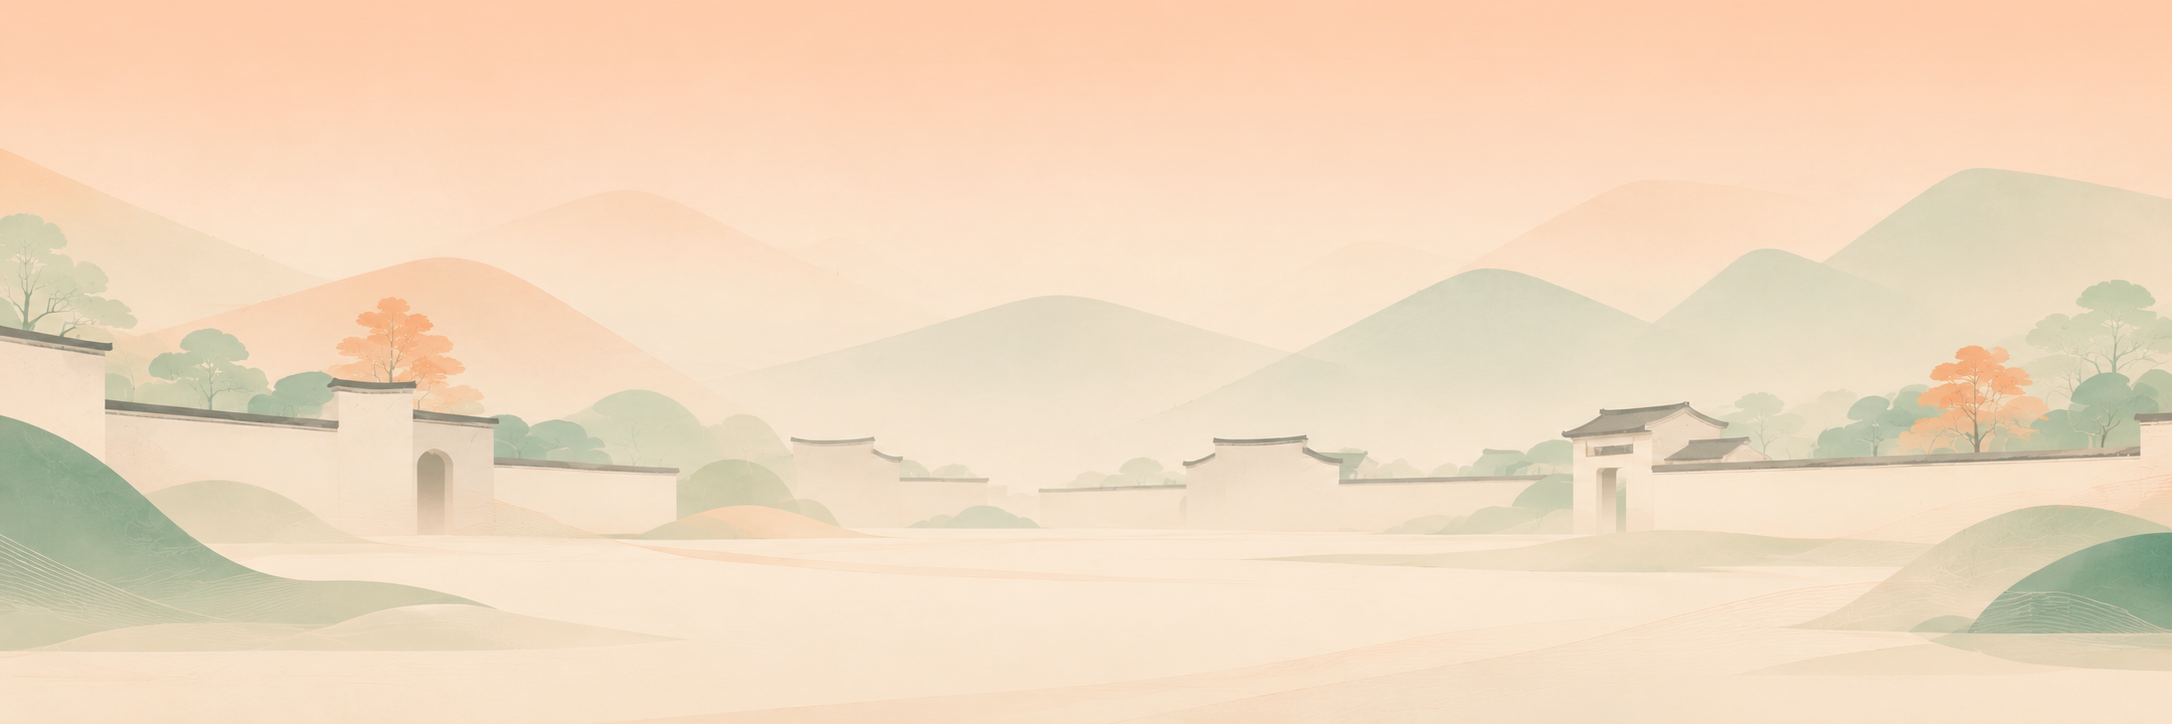
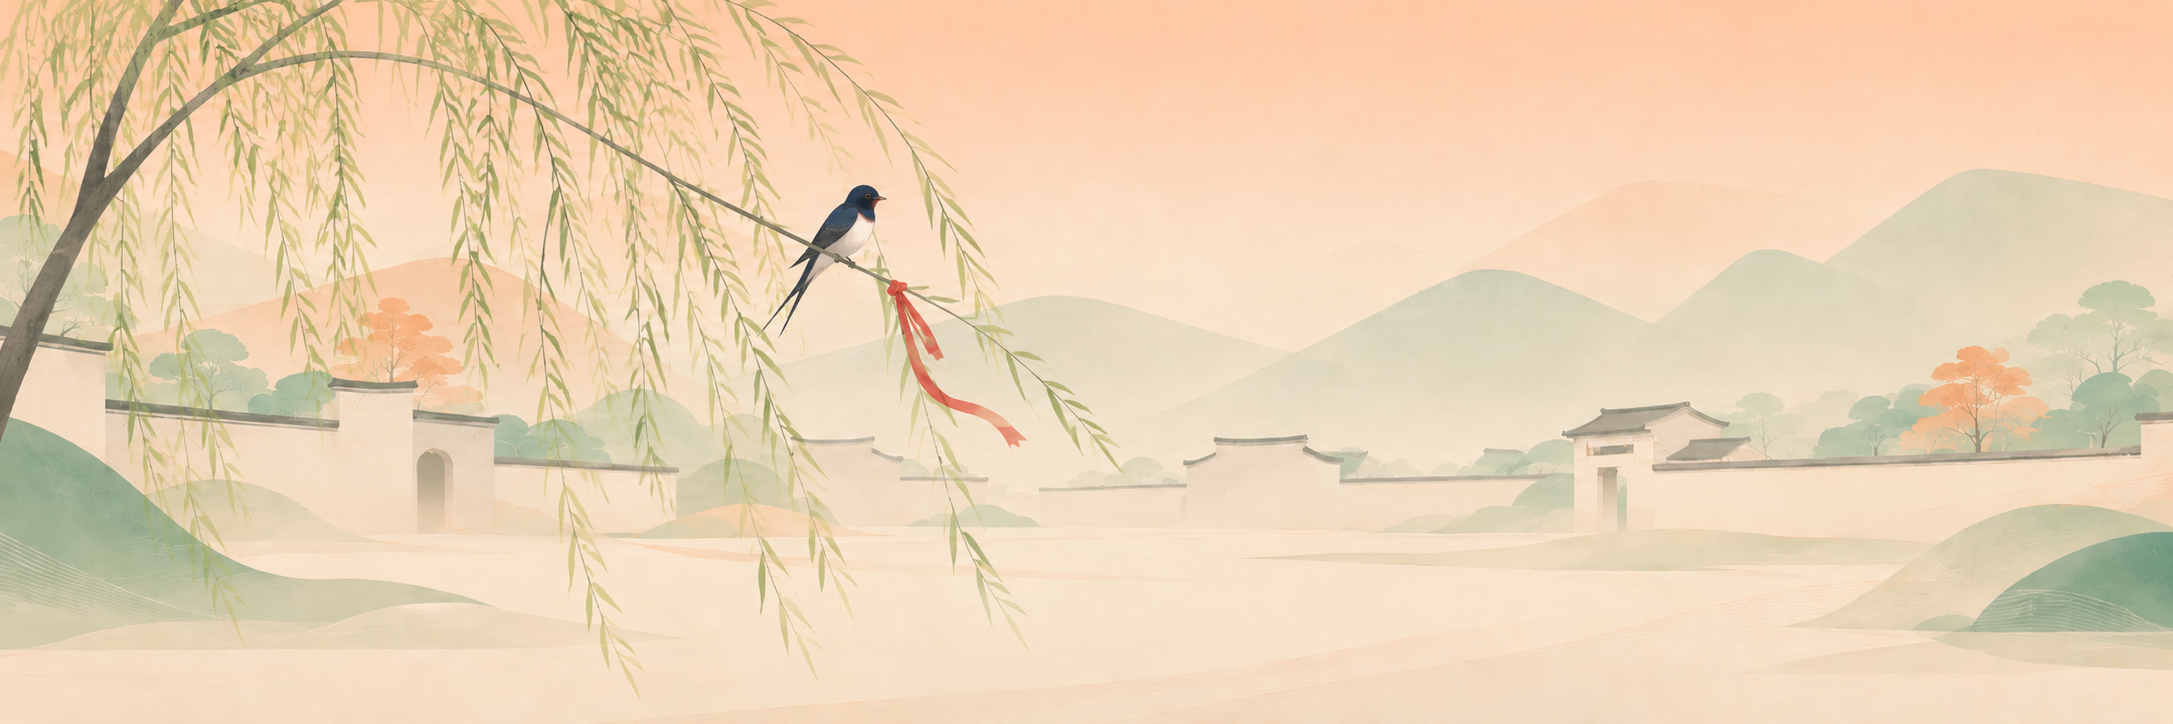
加入了燕子的元素作为Q3的提示

diff --git a/frontend/src/components/Chapter1/Chapter1.tsx b/frontend/src/components/Chapter1/Chapter1.tsx
@@ -5,7 +5,7 @@ import { ProgressStage } from '../../utils/gameSave'
 const MOVE_SPEED = 500 // 像素/秒
 
 /** 场景缩放因子 — 图片会放大到视口的 N 倍，越大探索空间越多 */
-const SCENE_SCALE = 2.5
+const SCENE_SCALE = 1.8
 
 const SCENE_IMG = '/assets/FirstLevel/mainscene.png'
 

diff --git a/frontend/src/components/ChapterNight/ChapterNight.tsx b/frontend/src/components/ChapterNight/ChapterNight.tsx
@@ -3,7 +3,7 @@ import TitleCard from '../TitleCard/TitleCard'
 import './ChapterNight.css'
 
 const MOVE_SPEED = 500
-const SCENE_SCALE = 2.5
+const SCENE_SCALE = 1.8
 const SCENE_IMG = '/assets/FirstLevel/mainscene.png'
 
 interface ChapterNightProps {